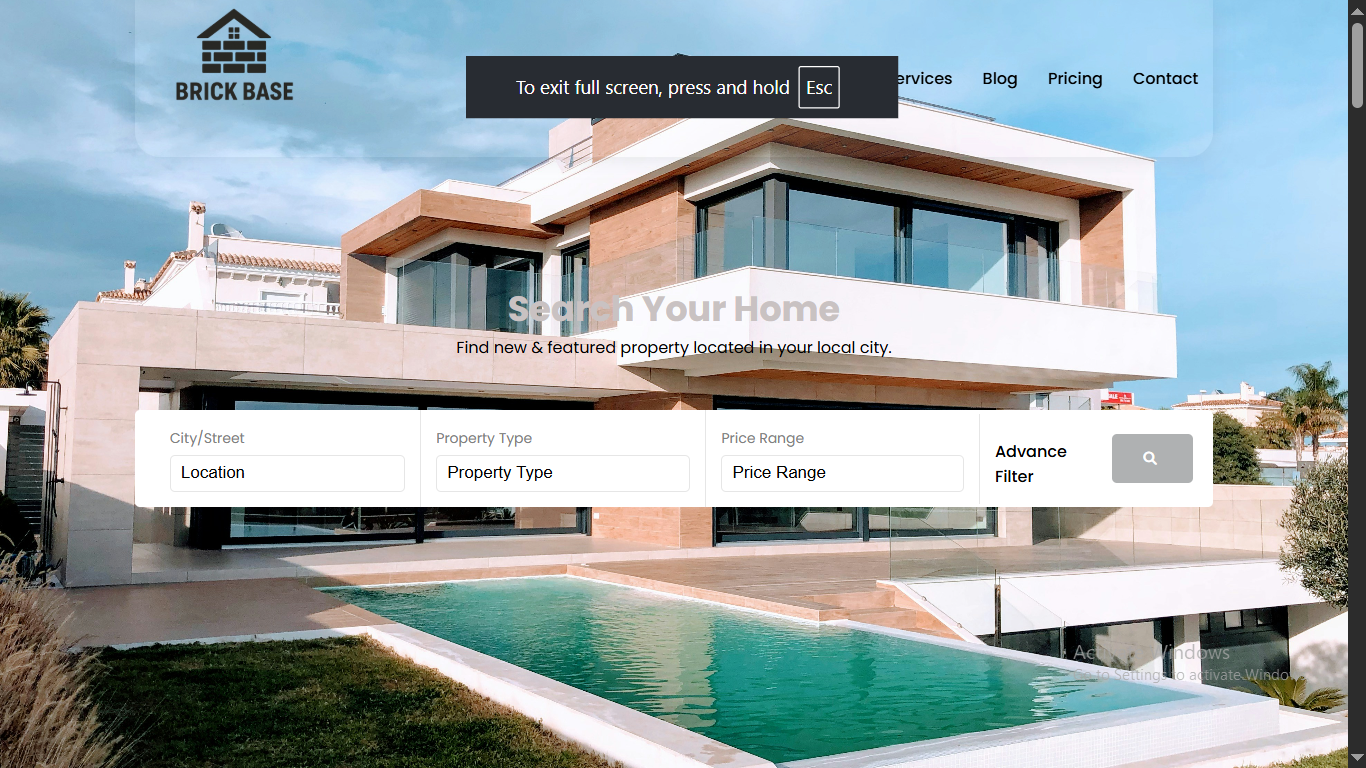
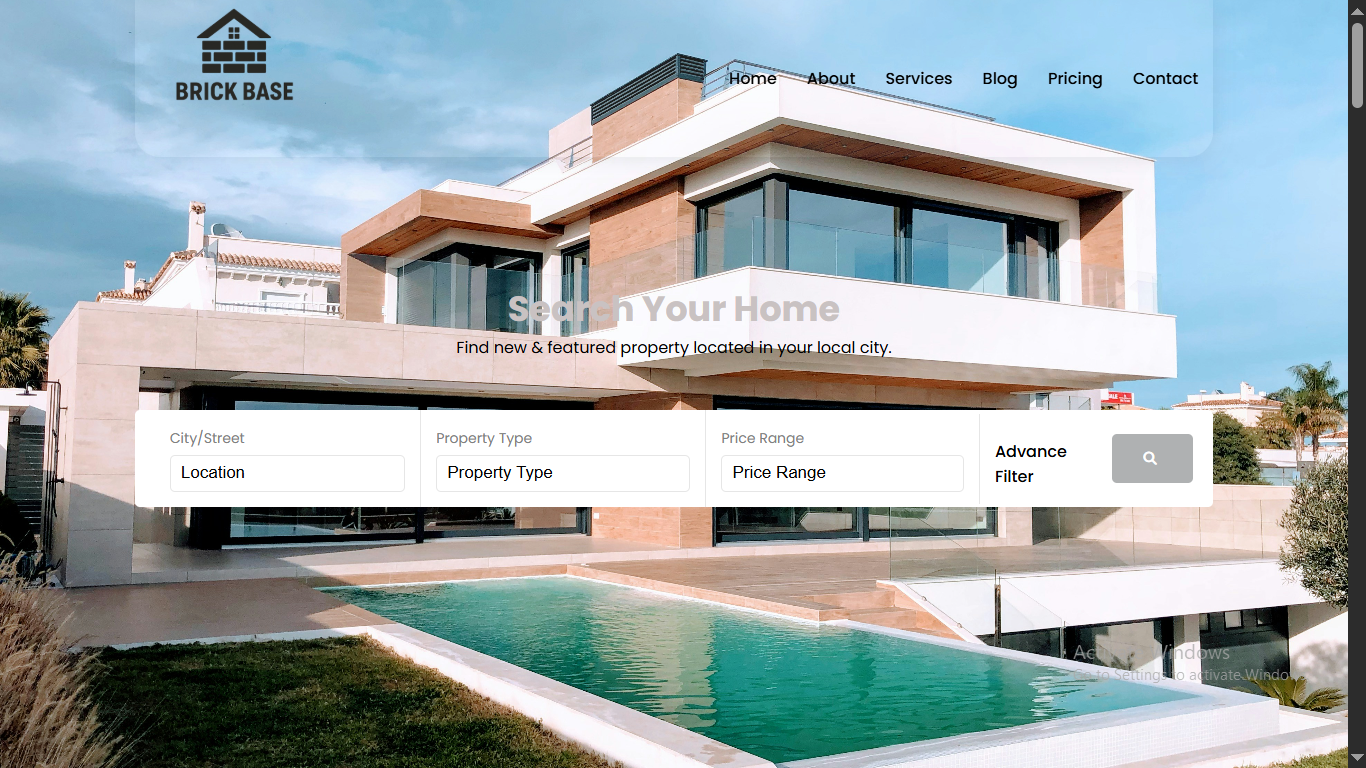
added about and stacks section flow

Changed region(s): [[0.3382, 0.0625, 0.6764, 0.1562]]

diff --git a/src/app/page.tsx b/src/app/page.tsx
@@ -1,11 +1,16 @@
 "use client";
 
 import { projects } from "@/data/projects";
+import { stacks } from "@/data/projects";
+import { stacksBtn } from "@/data/projects";
+
+
 import Cards from "@/components/Components/Cards";
 import { useState } from "react";
 
 export default function Page() {
   const [expandedCard, setExpandedCard] = useState<string | null>(null);
+    const [stackState, setStackState] = useState<number | null>(null);
 
   return (
     <>
@@ -42,56 +47,53 @@ export default function Page() {
               <div className=" grid grid-cols-1 md:grid-cols-1 gap-3 md:gap-6">
                 {/* button */}
                 <div className="flex items-center justify-center gap-3">
-                  <button className="bg-black/20 text-[0.9rem]  rounded-2xl p-2">
+                  {/* <button className="bg-black/20 text-[0.9rem]  rounded-2xl p-2">
                     Freelance Projects
                   </button>
 
                   <button className="bg-black/20 text-[0.9rem] rounded-2xl p-2">
                     UI/UX Designs
-                  </button>
+                  </button> */}
                 </div>
 
                 <div className="grid md:grid-cols-2 gap-4 h-full">
-{projects.map((project) => {
-  return (
-    <div
-      key={project.id}
-      className="bg-black/20 rounded-2xl gap-5 p-4 flex flex-col border border-neutral-700/50"
-    >
-      {/* IMAGE */}
-      <img
-        src="/brickbase.png"
-        alt={project.title}
-        className="rounded-xl object-cover"
-      />
+                  {projects.map((project) => {
+                    return (
+                      <div
+                        key={project.id}
+                        className="bg-black/20 rounded-2xl gap-5 p-4 flex flex-col border border-neutral-700/50"
+                      >
+                        {/* IMAGE */}
+                        <img
+                          src={project.img}
+                          alt={project.title}
+                          className="rounded-xl object-cover"
+                        />
 
-      {/* HEADER */}
-      <div className="flex flex-col md:flex-row justify-between gap-3 md:items-center">
-        <h1 className="text-xl font-bold">
-          {project.title}
-        </h1>
+                        {/* HEADER */}
+                        <div className="flex flex-col md:flex-row justify-between gap-3 md:items-center">
+                          <h1 className="text-xl font-bold">{project.title}</h1>
 
-        <a
-          href="#"
-          className="text-sm text-blue-400 hover:underline"
-        >
-          View Project
-        </a>
-      </div>
+                          <a
+                            href={project.url}
+                            className="text-sm text-blue-400 hover:underline"
+                          >
+                            View Project
+                          </a>
+                        </div>
 
-      {/* TECH STACK */}
-      <p className="text-sm text-neutral-400">
-        {project.technologies}
-      </p>
+                        {/* TECH STACK */}
+                        <p className="text-sm text-neutral-400">
+                          {project.technologies}
+                        </p>
 
-      {/* DESCRIPTION */}
-      <p className="text-sm text-neutral-300">
-        {project.description}
-      </p>
-    </div>
-  );
-})}
-                  
+                        {/* DESCRIPTION */}
+                        <p className="text-sm text-neutral-300">
+                          {project.description}
+                        </p>
+                      </div>
+                    );
+                  })}
                 </div>
               </div>
             </div>
@@ -120,19 +122,35 @@ export default function Page() {
             <div className="flex flex-col gap-6">
               <h1 className="text-4xl font-bold">Stacks</h1>
 
-              <div className="flex flex-wrap gap-3">
-                <div className="px-4 py-2 rounded-xl bg-black/20">Next.js</div>
-
-                <div className="px-4 py-2 rounded-xl bg-black/20">
-                  TypeScript
+              <div className="flex flex-col gap-3">
+                <div className="flex items-center justify-center gap-3">
+                  {stacksBtn.map((btn) => (
+                     <button key={btn.id} onClick={() => {
+                      setStackState(btn.id)
+                     }} className={`${stackState === btn.id && "bg-black/90 transition-all duration-300"} bg-black/20 text-[0.9rem]  rounded-2xl p-2`}>
+                   {btn.title}
+                  </button>) )}
+                 
                 </div>
 
-                <div className="px-4 py-2 rounded-xl bg-black/20">Tailwind</div>
+{stackState === 1 && (
+  <div className="grid md:grid-cols-2 gap-4 h-full">
+    {stacks.map((stack) => (
+      <div
+        className="bg-black/20 p-4 rounded-2xl"
+        key={stack.id}
+      >
+        {stack.title}
+      </div>
+    ))}
+  </div>
+)}
 
-                <div className="px-4 py-2 rounded-xl bg-black/20">
-                  Framer Motion
-                </div>
-              </div>
+{stackState === 2 && <div>Backend</div>}
+{stackState === 3 && <div>UI</div>}
+
+            
+  </div>
             </div>
           </Cards>
         </div>
@@ -141,7 +159,7 @@ export default function Page() {
           {/* CARD 3 */}
           <Cards
             id="card3"
-            title="Projects"
+            title="About"
             styles={`
               ${
                 expandedCard === "card3"
@@ -158,16 +176,32 @@ export default function Page() {
             expandedCard={expandedCard}
             setExpandedCard={setExpandedCard}
           >
-            <div className="flex flex-col gap-6">
-              <h1 className="text-4xl font-bold">Projects</h1>
+            <div className="flex flex-col gap-6 ">
+              <h1 className="text-4xl font-bold">About</h1>
+              <div className=" flex md:flex-row flex-col items-center  md:gap-6 h-full ">
+                <img
+                  src="/devImg.jpg"
+                  alt=""
+                  className="w-50 h-auto rounded-sm"
+                />
 
-              <div className="grid md:grid-cols-2 gap-4">
-                <div className="rounded-2xl bg-black/20 p-4">QAY Builder</div>
-
-                <div className="rounded-2xl bg-black/20 p-4">
-                  Portfolio System
+                <div className="flex flex-col  justify-center pt-3 ">
+                  <h1 className="text-2xl font-bold"> Abdulwahab Kayode </h1>
+                  <p className="">
+                    I build high-performance web apps that help startups and
+                    brands win, grow, and scale faster.
+                  </p>
                 </div>
-              </div>
+              </div>{" "}
+              <p className="text-sm text-neutral-300">
+                I'm a passionate web developer with a knack for creating dynamic
+                and visually appealing applications. With a strong foundation in
+                JavaScript and experience in frameworks like React and Next.js,
+                I specialize in building responsive and user-friendly
+                interfaces. I thrive on turning complex problems into elegant
+                solutions and am always eager to learn new technologies to
+                enhance my skill set.
+              </p>
             </div>
           </Cards>
 

diff --git a/src/data/projects.js b/src/data/projects.js
@@ -2,6 +2,8 @@ export const projects = [
   {
     id: 1,
     title: "BrickBase",
+    img: "/brickbase.png",
+    url: "https://brickbase-six.vercel.app/",
     description:
       "A real estate listing website built with React.js and Tailwind CSS.",
     technologies: "React.js, Tailwind CSS, JavaScript",
@@ -9,22 +11,98 @@ export const projects = [
   {
     id: 2,
     title: "QAY Builder",
-    description:
-      "A no-code website builder with AI-assisted design system.",
-    technologies: "Next.js, TypeScript, Tailwind",
+    img: "/qaybuilder.png",
+    url: "Qay-theta.vercel.app",
+    description: "A no-code website builder with AI-assisted design system.",
+    technologies: "Next.js, TypeScript, Tailwind, Supabase",
   },
   {
     id: 3,
     title: "Portfolio System",
-    description:
-      "Dynamic portfolio generator with expandable card UI.",
+    img: "/VscodePortfolio.png",
+    url: "https://portfolio01-six-inky.vercel.app/",
+    description: "Dynamic portfolio generator with expandable card UI.",
     technologies: "Next.js, Framer Motion, Tailwind",
   },
   {
     id: 4,
-    title: "Chat UI",
-    description:
-      "Realtime chat interface with modern UX design.",
+    title: "Spotify UI",
+    img: "/spotifyUiClone.png",
+    url: "https://portfolio01-six-inky.vercel.app/",
+    description: " ",
+    technologies: "React, Tailwind, Javascript",
+  },
+  {
+    id: 5,
+    title: "Youtube UI",
+    img: "/youtubeUiClone.png",
+    url: "https://youtube-lite-seven-weld.vercel.app/",
+    description: "Realtime chat interface with modern UX design.",
     technologies: "React, Socket.io, Tailwind",
   },
+];
+
+export const stacks = [
+  {
+    id: 1,
+    title: "React",
+    icon: "",
+  },
+  {
+    id: 2,
+    title: "Next js",
+    icon: "",
+  },
+  {
+    id: 3,
+    title: "Typescript",
+    icon: "",
+  },
+  {
+    id: 4,
+    title: "Javascript",
+    icon: "",
+  },
+  {
+    id: 5,
+    title: "Tailwind",
+    icon: "",
+  },
+  {
+    id: 6,
+    title: "Supabase",
+    icon: "",
+  },
+  {
+    id: 7,
+    title: "Figma",
+    icon: "",
+  },
+];
+
+export const stacksBtn = [
+  {
+    id: 1,
+    title: "Frontend",
+  },
+  {
+    id: 2,
+    title: "Backend",
+  },
+  {
+    id: 3,
+    title: "UI",
+  },
+  {
+    id: 4,
+    title: "No-code",
+  },
+  //   {
+  //   id:5,
+  //   title:"Frontend"
+  // },
+  //   {
+  //   id:1,
+  //   title:"Frontend"
+  // },
 ];